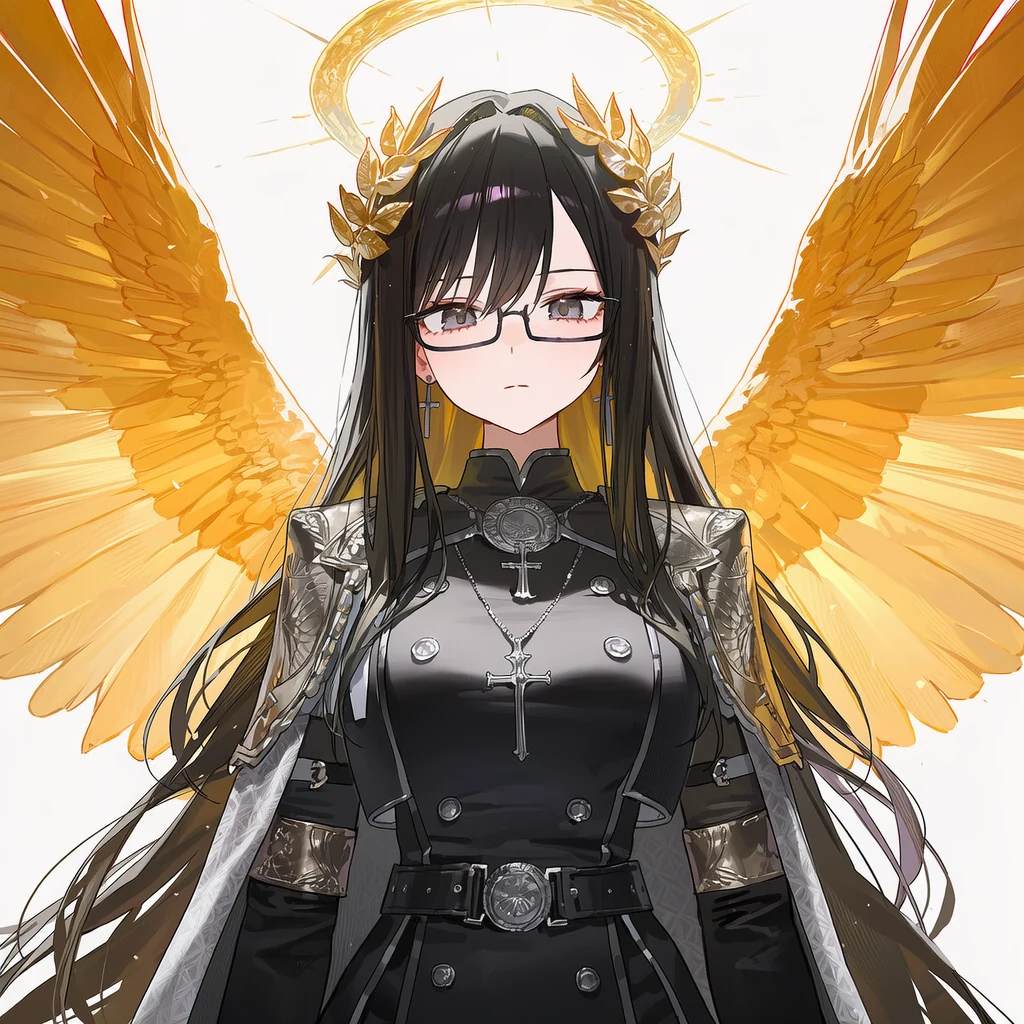
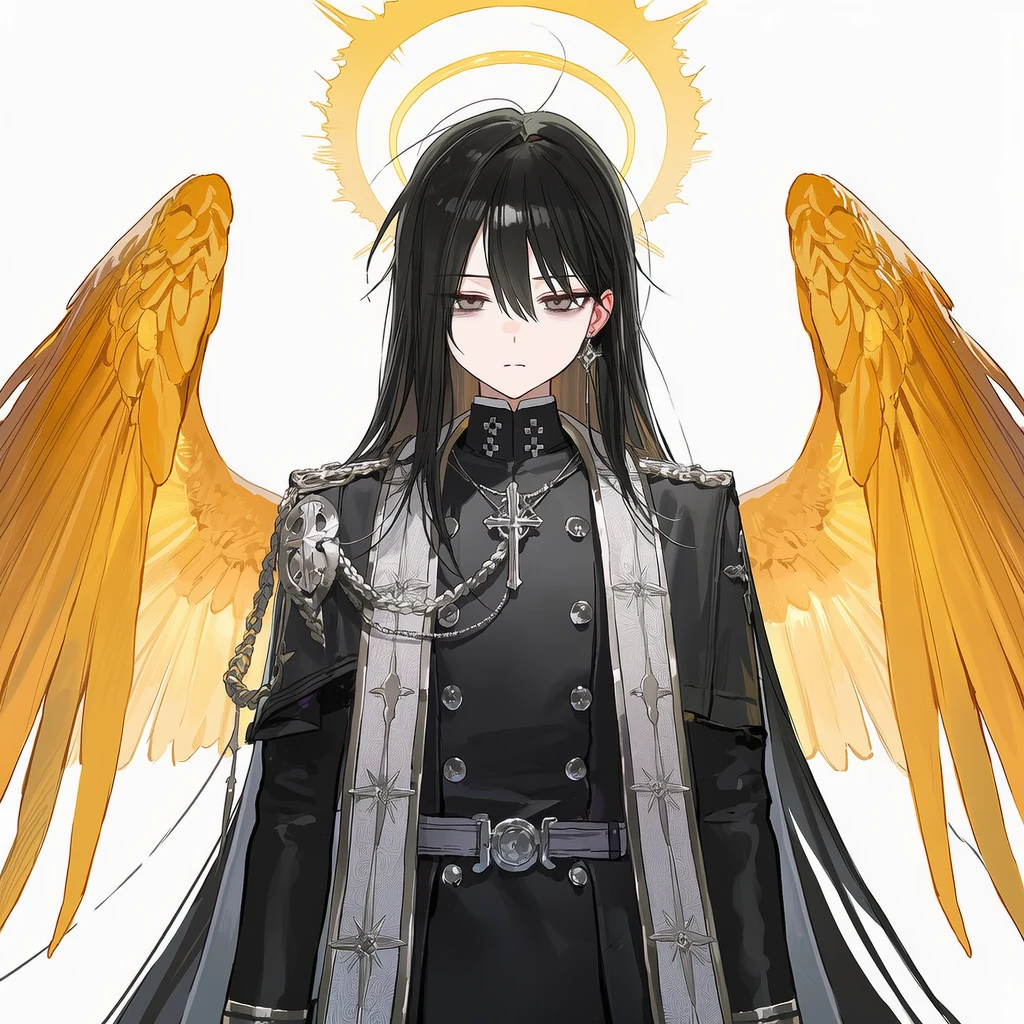
가드너 명부 추가와 다니엘 이미지 교체

diff --git a/index.html b/index.html
@@ -85,6 +85,7 @@
           <button type="button" data-filter="task-force" aria-pressed="false">대책반</button>
           <button type="button" data-filter="church" aria-pressed="false">성당교회</button>
           <button type="button" data-filter="nymph" aria-pressed="false">NYMPH</button>
+          <button type="button" data-filter="gardener" aria-pressed="false">가드너</button>
           <button type="button" data-filter="core" aria-pressed="false">핵심 존재</button>
         </div>
       </div>
